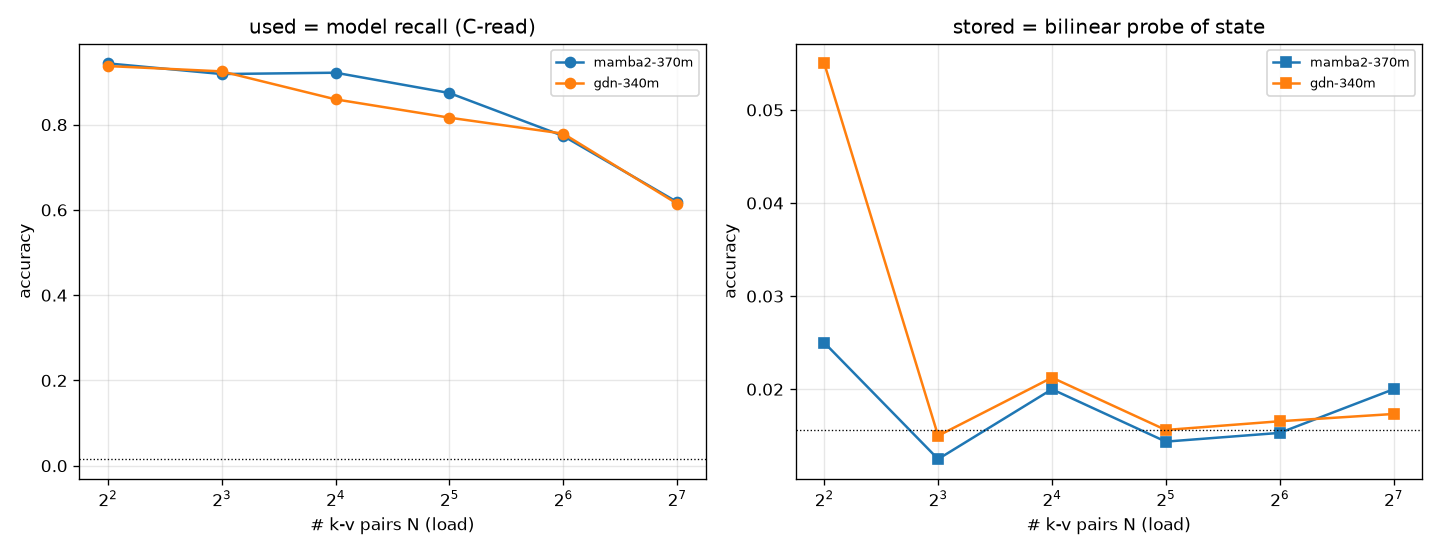
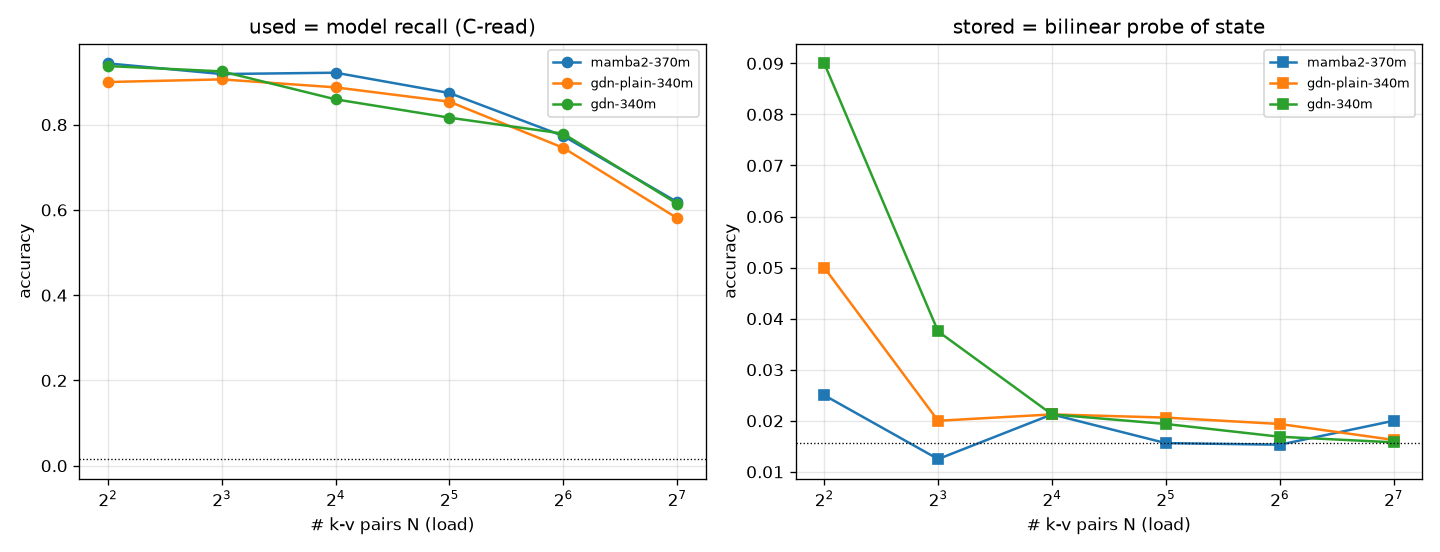
nb4: add plain single-state GDN -> pure update-rule compression comparison (SSD vs gated-delta vs MoM)
capacity_utils: plain-GDN loader (fla GatedDeltaNetForCausalLM + same fused-MLP/attn.D adapter).
3-way compression table isolates update rule (mamba2 vs gdn-plain) from the MoM mixture wrapper.

diff --git a/notebooks/capacity_utils.py b/notebooks/capacity_utils.py
@@ -15,8 +15,9 @@ import torch
 DEVICE = torch.device("cuda" if torch.cuda.is_available() else "cpu")
 
 MODELS = {
-    "mamba2-370m": {"hf": "state-spaces/mamba2-370m", "kind": "mamba2"},
-    "gdn-340m":    {"hf": "linear-moe-hub/MoM-Gated-Deltanet-340M", "kind": "gdn"},
+    "mamba2-370m":    {"hf": "state-spaces/mamba2-370m", "kind": "mamba2"},
+    "gdn-340m":       {"hf": "linear-moe-hub/MoM-Gated-Deltanet-340M", "kind": "gdn"},        # MoM variant
+    "gdn-plain-340m": {"hf": "linear-moe-hub/Gated-Deltanet-340M", "kind": "gdn_plain"},      # single-state GDN
 }
 
 
@@ -46,7 +47,7 @@ class ModelBundle:
         input_ids = input_ids.to(DEVICE)
         if self.kind == "mamba2":
             return _mamba2_states(self.model, input_ids)
-        if self.kind == "gdn":
+        if self.kind in ("gdn", "gdn_plain"):
             return _gdn_states(self.model, input_ids)
         raise ValueError(self.kind)
 
@@ -102,15 +103,20 @@ def load_bundle(name):
         tok = AutoTokenizer.from_pretrained("EleutherAI/gpt-neox-20b")
         model = MambaLMHeadModel.from_pretrained(spec["hf"], device=DEVICE, dtype=torch.float32).eval()
         return ModelBundle(name, model, tok, "mamba2")
-    if spec["kind"] == "gdn":
-        # linear-moe-hub checkpoints use a fused SwiGLU MLP + attn.D; adapt onto current fla.
+    if spec["kind"] in ("gdn", "gdn_plain"):
+        # linear-moe-hub checkpoints (MoM and plain GDN) share a fused SwiGLU MLP + attn.D that
+        # current fla dropped; adapt the weights onto current fla (split gate_proj, drop D).
         import fla  # noqa: F401
         from safetensors.torch import load_file
         from huggingface_hub import hf_hub_download
         from transformers import AutoTokenizer
-        from fla.models.mom import MomConfig, MomForCausalLM
-        MomForCausalLM._tied_weights_keys = {}
-        cfg = MomConfig.from_pretrained(spec["hf"])
+        if spec["kind"] == "gdn":
+            from fla.models.mom import MomConfig as CfgCls, MomForCausalLM as MdlCls          # MoM
+        else:
+            from fla.models.gated_deltanet import (GatedDeltaNetConfig as CfgCls,             # single-state
+                                                   GatedDeltaNetForCausalLM as MdlCls)
+        MdlCls._tied_weights_keys = {}
+        cfg = CfgCls.from_pretrained(spec["hf"])
         ckpt = load_file(hf_hub_download(spec["hf"], "model.safetensors"))
         sd = {}
         for k, v in ckpt.items():
@@ -122,11 +128,11 @@ def load_bundle(name):
                 sd[k.replace("gate_proj", "up_proj")] = v[half:]
             else:
                 sd[k] = v
-        model = MomForCausalLM(cfg)
+        model = MdlCls(cfg)
         model.load_state_dict(sd, strict=False)
         tok = AutoTokenizer.from_pretrained(spec["hf"])
         model = model.to(DEVICE).eval()
-        return ModelBundle(name, model, tok, "gdn")
+        return ModelBundle(name, model, tok, spec["kind"])
     raise ValueError(name)
 
 